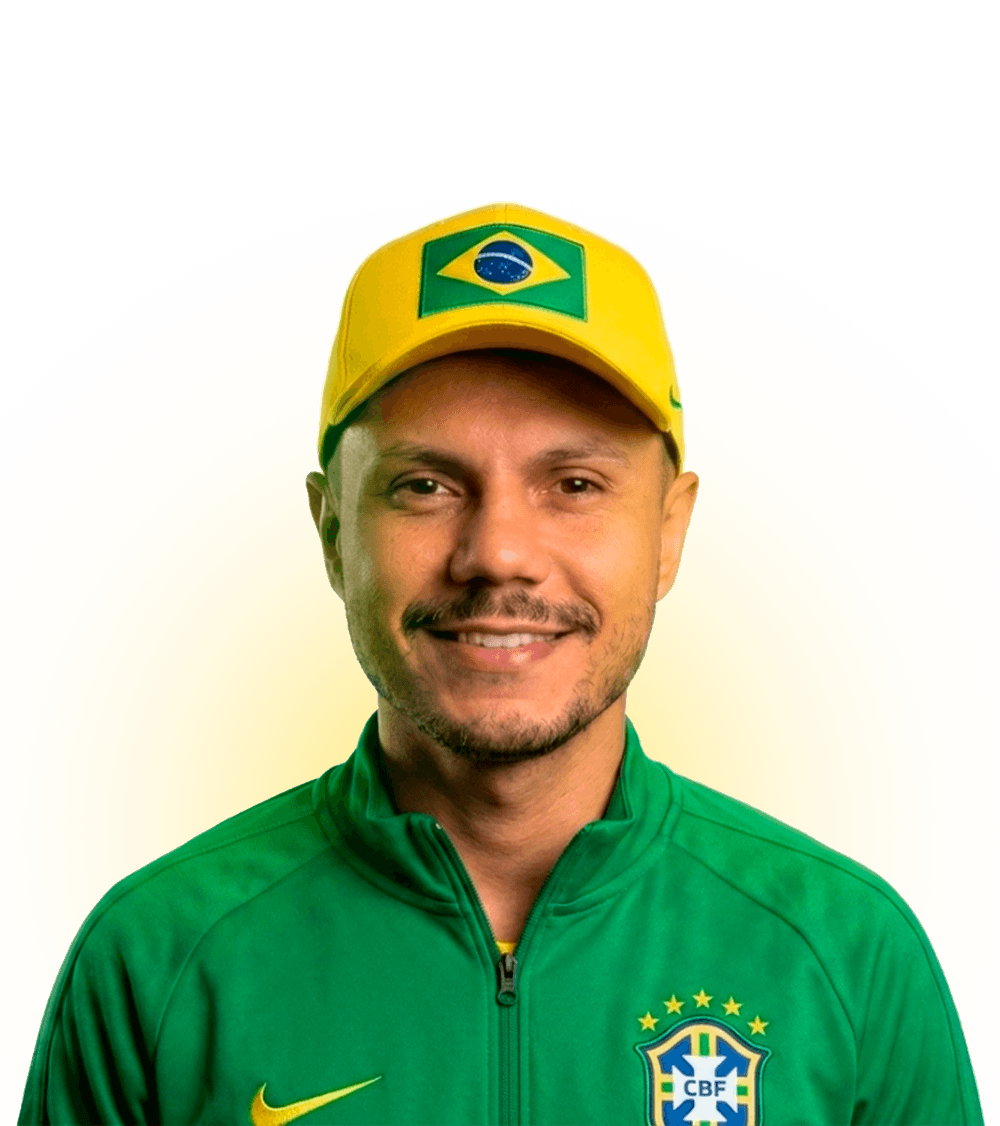
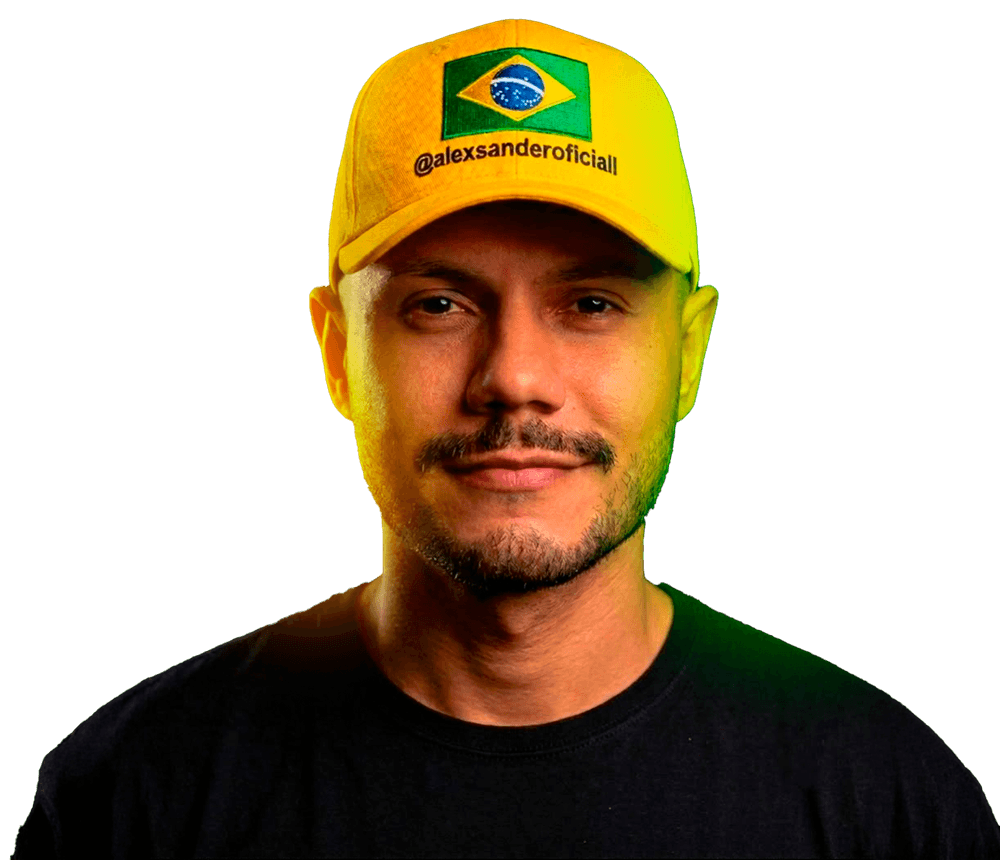
Atualiza foto do Hero com novo boné personalizado @user
Nova versão do recorte do Alex: boné verde/amarelo com o @ do
Instagram bordado e camiseta preta (troca da jaqueta CBF anterior).
Dimensões e alt text ajustados para a nova proporção da imagem
(1000x860, antes 1000x1126).

diff --git a/index.html b/index.html
@@ -119,8 +119,8 @@
       <div class="hero__media reveal">
         <picture>
           <source type="image/webp" srcset="img/hero.webp" />
-          <img src="img/hero.png" width="1000" height="1126"
-               alt="Alex Sander sorrindo, com boné e jaqueta verde e amarela do Brasil, em Aparecida de Goiânia" fetchpriority="high" decoding="async" />
+          <img src="img/hero.png" width="1000" height="860"
+               alt="Alex Sander sorrindo, com boné verde e amarelo do Brasil e camiseta preta, em Aparecida de Goiânia" fetchpriority="high" decoding="async" />
         </picture>
         <span class="hero__badge" aria-hidden="true">
           <svg class="ic" viewBox="0 0 24 24"><path d="M12 2C8.13 2 5 5.13 5 9c0 5.25 7 13 7 13s7-7.75 7-13c0-3.87-3.13-7-7-7zm0 9.5A2.5 2.5 0 1 1 12 6.5a2.5 2.5 0 0 1 0 5z"/></svg>